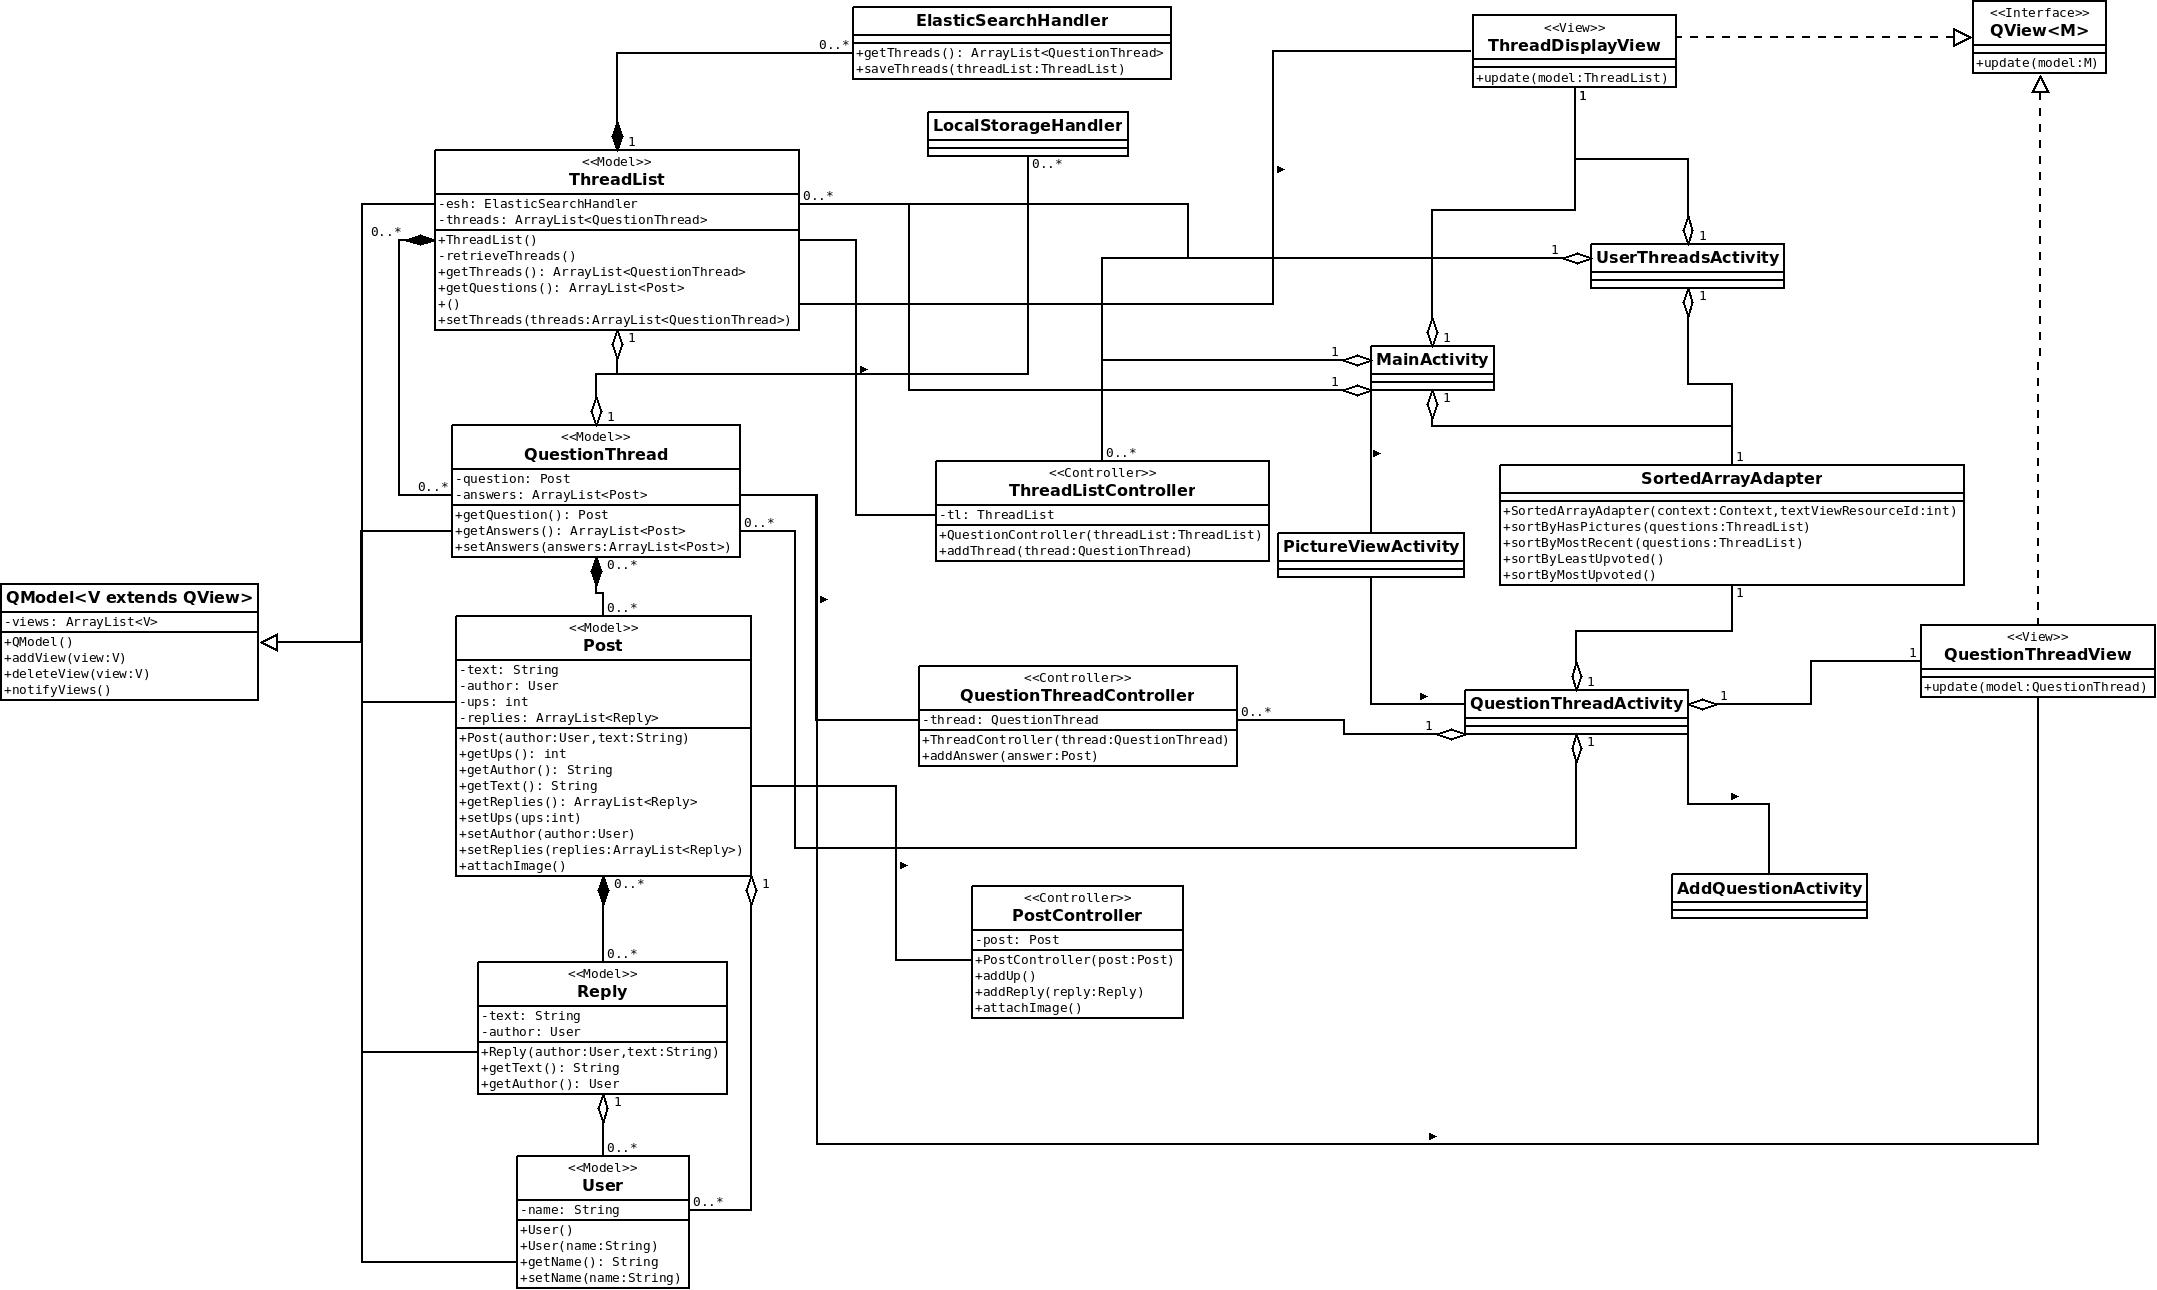
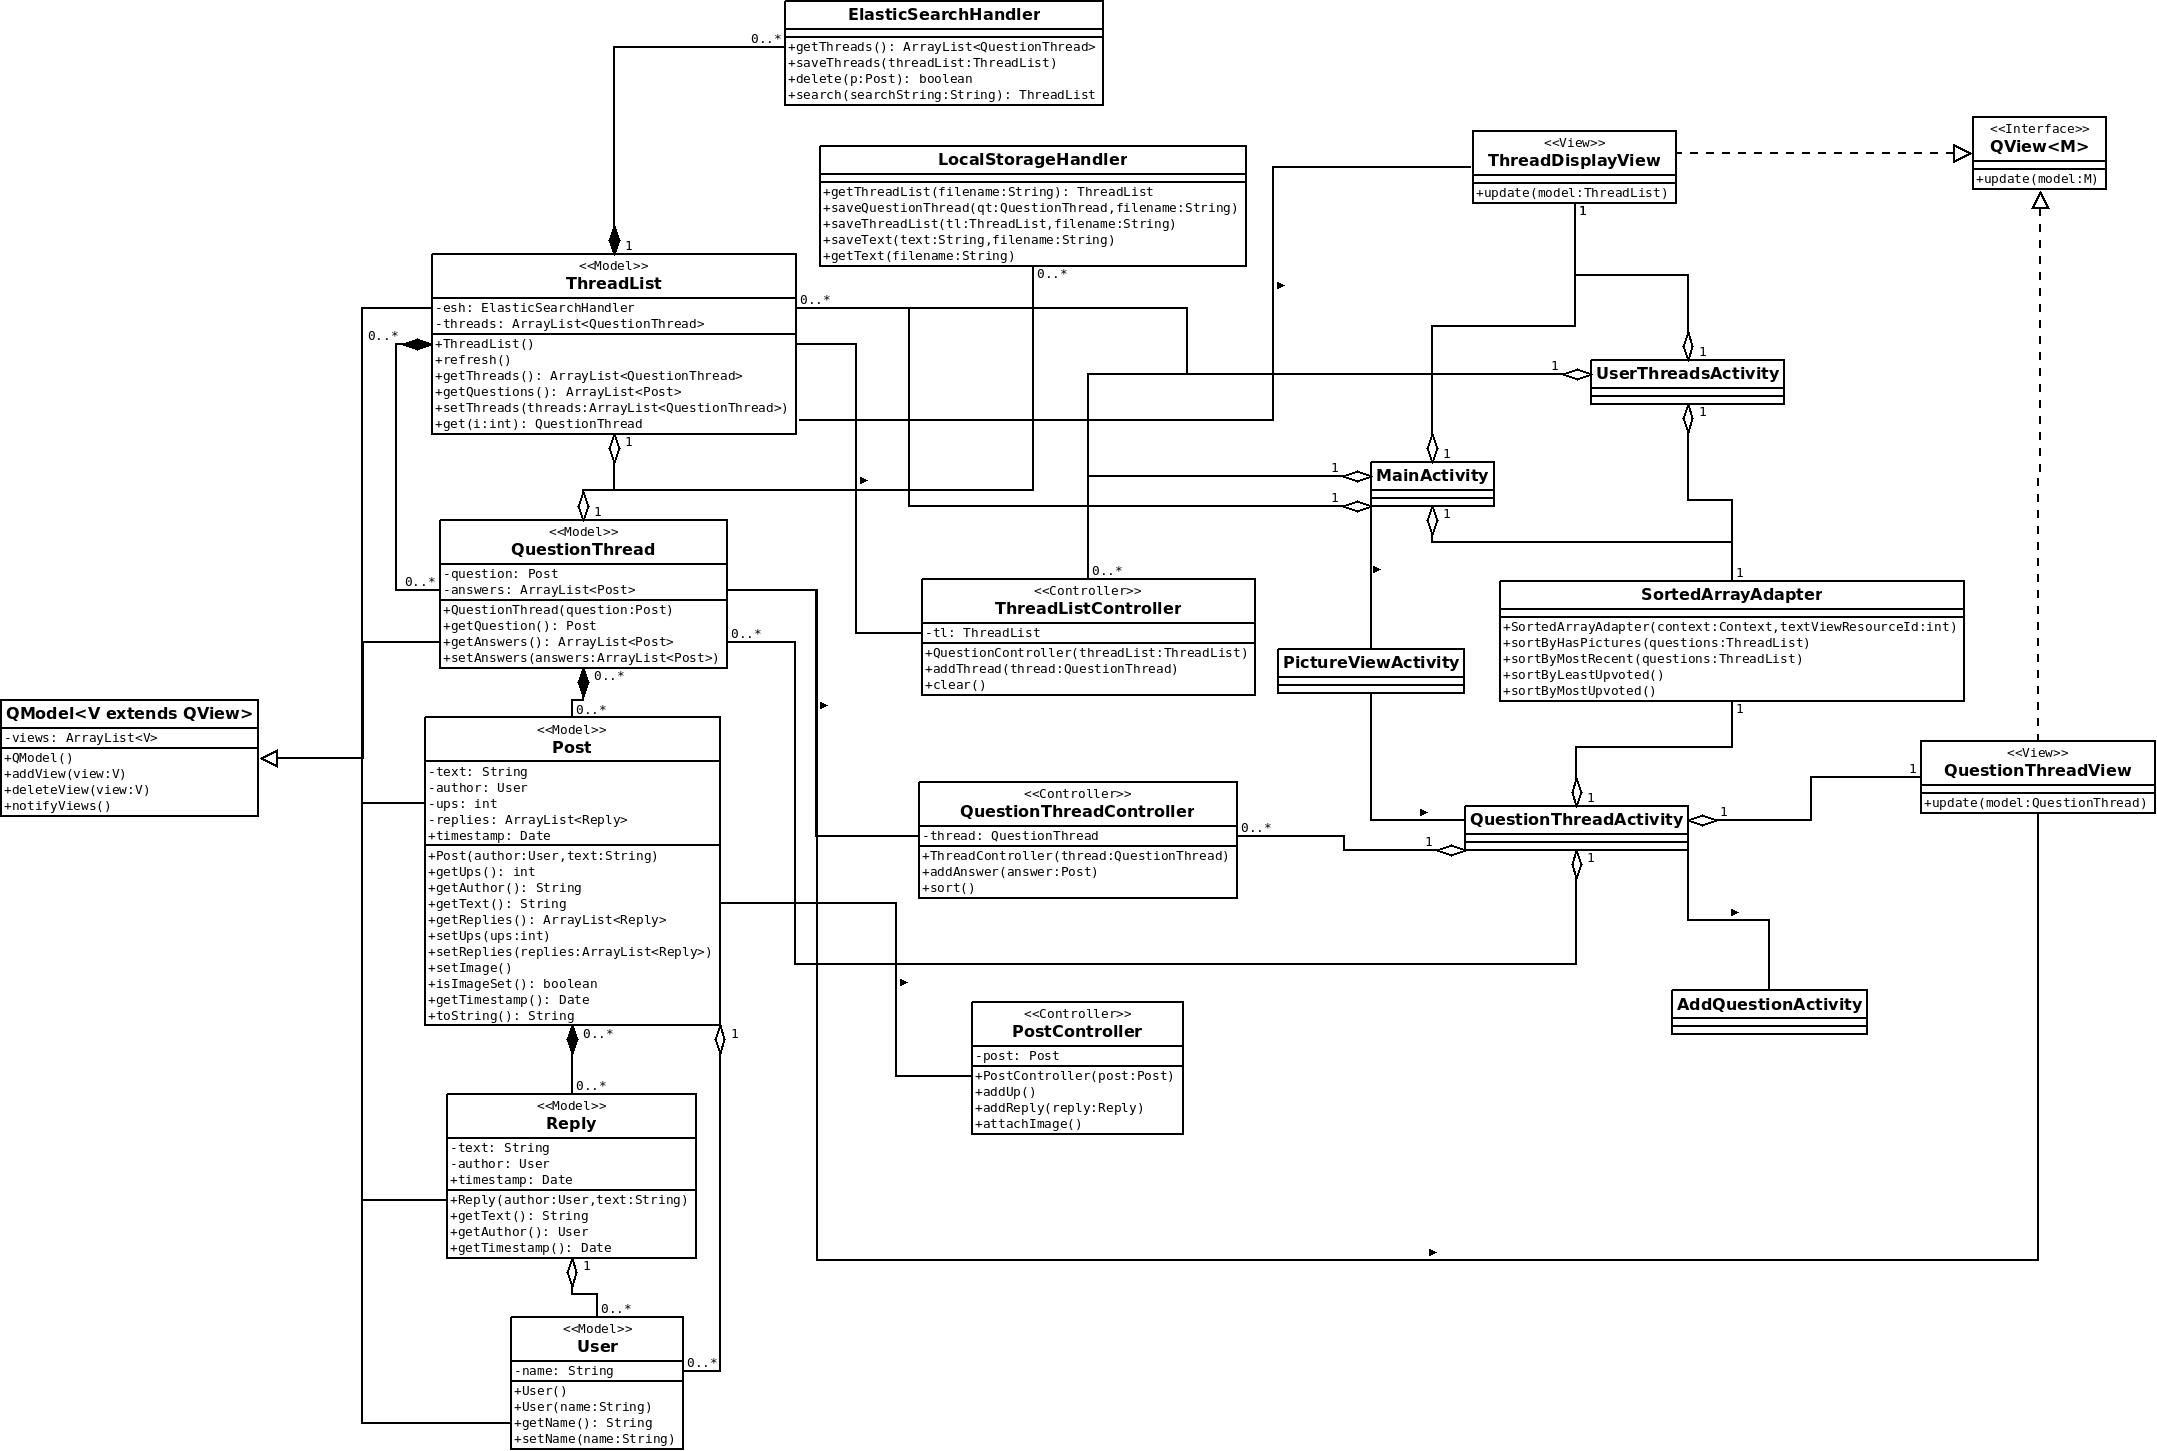
Changed some methods in controllers and models, updated UML

diff --git a/Q'sAndA'sTests/src/com/team09/qanda/test/QuestionThreadControllerTest.java b/Q'sAndA'sTests/src/com/team09/qanda/test/QuestionThreadControllerTest.java
@@ -87,7 +87,7 @@ public class QuestionThreadControllerTest extends TestCase {
 		QuestionThreadController qctl = new QuestionThreadController(qThread);
 		qctl.addAnswer(ans);
 		// Attach image in question using question thread controller
-		qctl.attachImage();
+		q.setImage();
 		assertTrue("There is no image!", q.isImageSet());
 	}
 	
@@ -109,7 +109,7 @@ public class QuestionThreadControllerTest extends TestCase {
 		assertTrue("This is not answered", !qThread.getAnswers().isEmpty());
 		Boolean thrown = false;
 		try {
-			qctl.attachImage();
+			q.setImage();
 		} catch (IllegalArgumentException e) {
 			thrown = true;
 		}
@@ -131,7 +131,7 @@ public class QuestionThreadControllerTest extends TestCase {
 		qctl.addAnswer(answer2);
 		qctl.addAnswer(answer3);
 		qctl.sort();
-		assertEquals(qctl.getAnswers().get(0),answer2);
+		assertEquals(qThread.getAnswers().get(0),answer2);
 	}
 
 	// Use Case #14: Most upvoted answers
@@ -145,7 +145,7 @@ public class QuestionThreadControllerTest extends TestCase {
 		qctl.addAnswer(answer1);
 		qctl.addAnswer(answer2);
 		qctl.addAnswer(answer3);
-		assertEquals(qctl.answerCount(),3);
+		assertEquals(qThread.answerCount(),3);
 	}
 	
 	// Use Case #22: As a user, by default, I should see the most fresh comments
@@ -168,7 +168,7 @@ public class QuestionThreadControllerTest extends TestCase {
 	//Use Case 11: Upvote a Question
 	public void testUpVotes(){
 		Post txt=new Post(new User(),"Do upvotes work?");
-		QuestionThreadController cn1=new QuestionThreadController(new QuestionThread(txt));
+		PostController cn1=new PostController(txt);
 		cn1.addUp();
 		assertTrue(txt.getUps()==1);
 		cn1.addUp();

diff --git a/Team09_Q'sAndA's/src/com/team09/qanda/QuestionThreadController.java b/Team09_Q'sAndA's/src/com/team09/qanda/QuestionThreadController.java
@@ -16,27 +16,10 @@ public class QuestionThreadController {
 		answers.add(answer);
 		thread.setAnswers(answers);
 	}
-	
-	public ArrayList<Post> getAnswers() {
-		return thread.getAnswers();
-	}
-
-	public void attachImage() {
-		// TODO Auto-generated method stub
-		thread.setImage();
-	}
 
 	public void sort() {
 		// TODO Auto-generated method stub
 		
-	}
-
-	public int answerCount() {
-		return getAnswers().size();
-	}
-	public void addUp(){
-		PostController temp=new PostController(thread.getQuestion());
-		temp.addUp();
 	}
 	
 }

diff --git a/Q'sAndA'sTests/src/com/team09/qanda/test/ThreadListControllerTest.java b/Q'sAndA'sTests/src/com/team09/qanda/test/ThreadListControllerTest.java
@@ -49,7 +49,7 @@ public class ThreadListControllerTest extends
 		
 		assertEquals("Question 1?", questions.get(0).getQuestion().getText());
 		assertEquals("John", questions.get(0).getQuestion().getAuthor());
-		assertEquals(2, questions.get(1).getNumOfAnswers());
+		assertEquals(2, questions.get(1).answerCount());
 		assertEquals(2, questions.get(1).getQuestion().getUps());		
 	}
 	

diff --git a/Team09_Q'sAndA's/src/com/team09/qanda/LocalStorageHandler.java b/Team09_Q'sAndA's/src/com/team09/qanda/LocalStorageHandler.java
@@ -3,12 +3,6 @@ package com.team09.qanda;
 public class LocalStorageHandler {
 	//For local data storage using GSON/JSON
 
-	/*private ThreadList tl;
-
-	public LocalStorageHandler(ThreadList threadList) {
-		this.tl=threadList;
-	}*/
-
 	public ThreadList getThreadList(String filename) {
 		// TODO Auto-generated method stub
 		return new ThreadList();

diff --git a/Team09_Q'sAndA's/src/com/team09/qanda/QuestionThread.java b/Team09_Q'sAndA's/src/com/team09/qanda/QuestionThread.java
@@ -19,17 +19,13 @@ public class QuestionThread extends QModel<QView> {
 		return this.answers;
 	}
 	
-	public int getNumOfAnswers() {
+	public int answerCount() {
 		return this.answers.size();
 	}
 	
 	public void setAnswers(ArrayList<Post> answers) {
 		this.answers=answers;
 		notifyViews();
-	}
-
-	public void setImage() {
-		// TODO
 	}
 
 }
